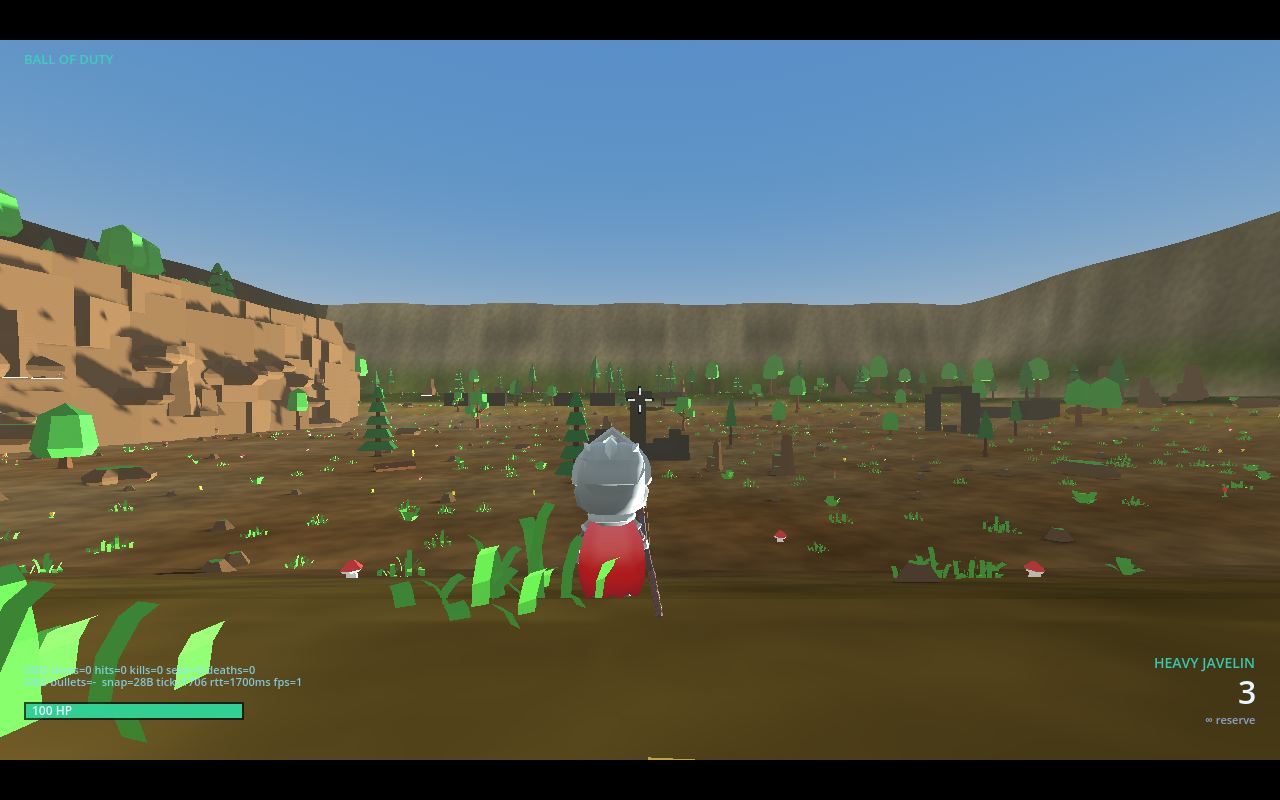
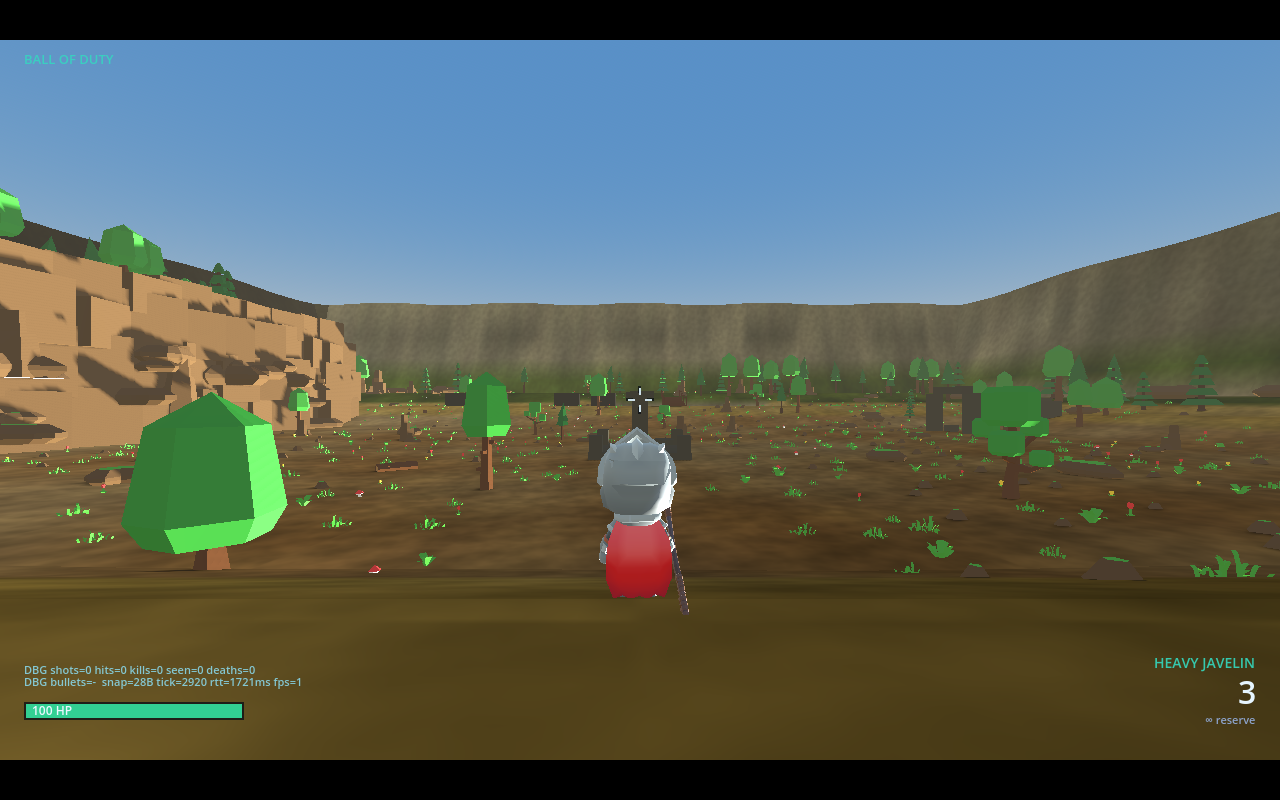
Map fix: cave aprons, ramp lanes, bridge and lookout access

diff --git a/docs/PLAN.md b/docs/PLAN.md
@@ -119,14 +119,25 @@ while the server hits is expected under lag and is better than an invisible one.
 - **Spawns/boundary:** `Spawn01`…`Spawn08`, snapped to the height field, ≥ 22 m apart, none
   blocked. Invisible 40 m boundary walls at ±69.5 m plus the mountain ring/rock faces stop the
   player and the third-person spring arm.
-- **Budget:** 49 draw calls, 191,270 triangles, 1,804 MultiMesh instances, 371 static colliders
-  (quarry); hard limits remain 150 / 250k. Web export: 44,748 KB raw, **14,217 KB gzip**.
+- **Budget:** 49 draw calls, 190,110 triangles, 1,798 MultiMesh instances, 353 static colliders
+  (quarry); hard limits remain 150 / 250k. Web export: 44,752 KB raw, **14,219 KB gzip**.
 - **Tests:** `tests/gdunit/test_quarry_arena.gd` (9 cases: load, mesh/heightmap parity, spawns,
   cave clearance, hero colliders, walkable routes, boundary, camera wall, main-scene wiring);
   `tests/headless/arena_stats.gd` now validates both maps; `tests/headless/quarry_match.gd`
   runs a 45 s four-bot match (spawn, movement, shots, hits, kills).
-- **Verified:** four bots moved 39.7–80.7 m and produced 136 shots / 24 hits / 3 deaths on the
-  new map; 113 test cases green; web console clean.
+- **QA walkthrough:** `tests/headless/quarry_walk.gd` drives the real `PlayerController` /
+  `LocomotionComponent` through 35 sections (all 9 chunks, both cave directions including the
+  aprons, six ramp directions, bridge, tower, raised lookout, all 8 spawns, four edges and three
+  platform falls). Result: **PASS**, 536.1 m travelled, 0 fall-through, 0 camera clips, 0
+  stuck episodes over 1.5 s (the only long stationary periods are the expected edge pushes).
+- **Map fixes from the walkthrough:** cave mouth aprons flattened to the tunnel floor; a boulder
+  and two trees removed from the west/east ramp lanes; a tree removed from the cave approach;
+  bridge rebuilt as a sloped deck with flush landings and correct abutments; lookout raised to a
+  real 1.6 m platform with a sloped ramp (vertical step boxes are not climbable by this
+  controller); spawns 7/8 moved onto flat benches; cave floor z-fighting removed; cave lamps and
+  wood/stone values raised for web readability.
+- **Verified:** four bots moved 47–108 m and produced 74 shots / 29 hits / 3 deaths on the new
+  map; 113 gdUnit cases green; 35 walkthrough sections green; web console clean.
 
 ## 3b. Class weapons + bigger playground (research prompt)
 

diff --git a/docs/TESTING.md b/docs/TESTING.md
@@ -57,8 +57,9 @@ Exit codes: `0` green, `100` test failure. `check.sh` relies on both the exit co
 | `tests/gdunit/test_class_weapon_visual.gd` | 4 | 0 | class→variant, five weapon/muzzle attachments, animation map, HUD state |
 | `tests/gdunit/test_sanity.gd` | 2 | 2 | toolchain canary: runner + scene instantiation |
 
-**113 test cases · ~940 assertions.** Quarry budget: 49 draw calls, 191,270 triangles; web
-export 44,748 KB raw / 14,217 KB gzip. `test_net_loopback` stays one integration test: the value is the
+**113 test cases · ~940 assertions**, plus **35 walkthrough sections** and the 4-bot match.
+Quarry budget: 49 draw calls, 190,110 triangles; web export 44,752 KB raw / 14,219 KB gzip.
+Walkthrough: 536.1 m, 0 fall-through, 0 camera clips, 0 stuck episodes over 1.5 s. `test_net_loopback` stays one integration test: the value is the
 real socket path and shared tick, and re-establishing three peers per assertion would triple runtime.
 Loopback tests disable the local `_physics_process` and drive `simulate_tick()` explicitly, so the
 prediction path is identical to real input without competing sequences.
@@ -74,7 +75,10 @@ Not in gdUnit4:
 - `tools/soak.sh` / `tests/headless/soak_runner.gd` — 30 Hz soak with real WS clients and bots,
   metrics for tick/frame/CPU/RSS/nodes/snapshot/ack/combat. `--full` is the 10-minute gate.
 - `tests/headless/arena_stats.gd` — draw calls / triangles / collider budget report for the nature and quarry arenas.
+- `tests/headless/quarry_walk.gd` — 35-section real-physics walkthrough on the quarry (chunks, cave aprons/bore, ramps, bridge, tower, lookout, spawns, edges, falls). Fails on fall-through, >1.5 s stuck, unreachable spawn, cave camera clipping or boundary escape.
 - `tests/headless/quarry_match.gd` — 45 s four-bot headless match on the quarry (spawn, movement, shots, hits, deaths).
+
+`tools/check.sh` runs both arena harnesses after the gdUnit suite and arena budget.
 
 ## Tooling
 

diff --git a/docs/BACKLOG.md b/docs/BACKLOG.md
@@ -24,7 +24,8 @@ Status: `todo` · `doing` · `done` · `deferred`
 | S33 | Firefox compatibility | Deprecated `try`, depth-filter/attrib-0/viewport WebGL warnings, `file://` security error, audio autoplay, background-tab throttle | deferred | CP5 |
 | S52 | Damage/scope pass | Head hitbox + headshot multiplier removed; bleed/spread/effect/armour_pierce/gravity removed; flat rounds inherit shooter velocity (experimental); Knight 34, Mage 18 + 8 splash (mag 12), bow 60, crossbow 12, Barbarian 34 → 3-hit kills; Knight reload 1.4 s | done | CP5 |
 | S51 | Class balance pass | Projectiles −30 % speed; Mage cycle +40 %, damage −20 %; crossbow 18/36; heavy gravity 12/10; pierce second-hurtbox fix | done | CP5 |
-| S50 | Sunken Quarry arena | 150×150 m, 3×3 mesh chunks, heightmap/collision, 61 m double-wall cave, rock skirts, MultiMesh foliage, 8 spawns; 49 draw calls / 198,704 tris | done | CP5 |
+| S50 | Sunken Quarry arena | 150×150 m, 3×3 mesh chunks, heightmap/collision, 61 m double-wall cave, rock skirts, MultiMesh foliage, 8 spawns; 49 draw calls / 190,110 tris | done | CP5 |
+| S53 | Map QA walkthrough | Real-physics 35-section harness (chunks, cave, ramps, bridge, tower, lookout, spawns, edges, falls); fixed cave aprons, ramp lane blockers, bridge lip/east landing, lookout access, spawn slopes, cave floor z-fighting | done | CP5 |
 | S49 | Class weapons v1 | Five class profiles, picker (`?class=`), per-class variants/models/animations/HUD; M4 retired for now; Quaternius CC0 spear/bow models | done | CP5 |
 | S48 | Class weapons + bigger map research | Report + decisions at `docs/research/weapons-and-arena.md` / `WEAPONS-DECISIONS.md` | done | CP5 |
 | S47 | Roster cap | Accepted **8 total actors** (humans + bots) for V1; soak covers 4+4 and 8+0. 8 clients + 4 bots would need MAX_PLAYERS=12 plus 4 more spawns and a 270 B snapshot row | done | CP4d |
